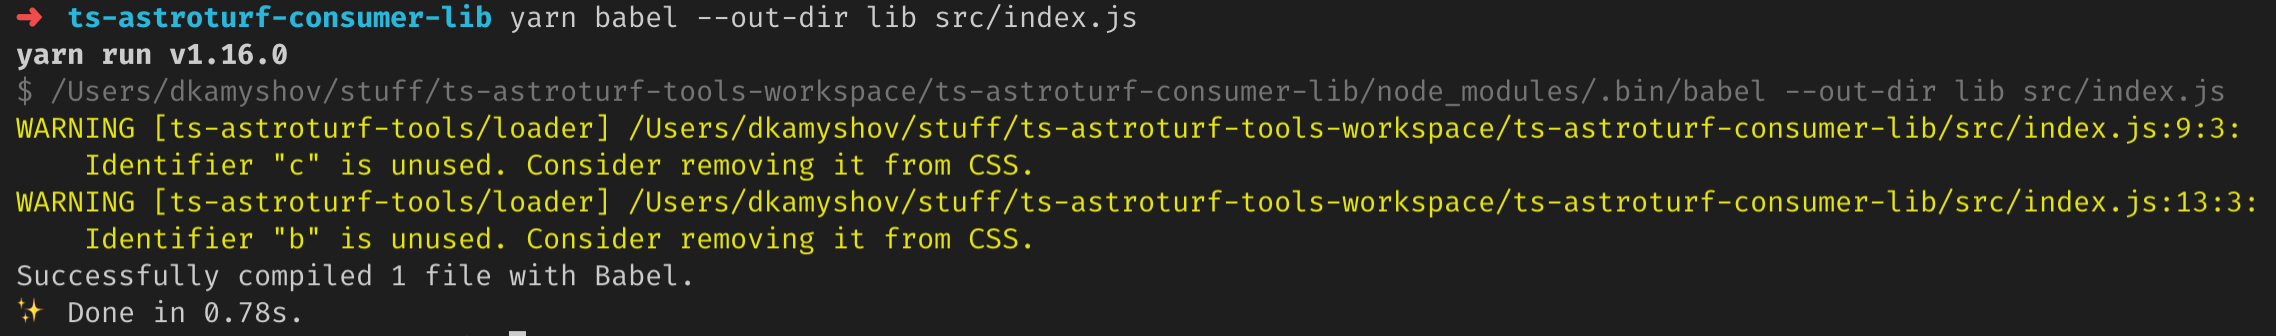
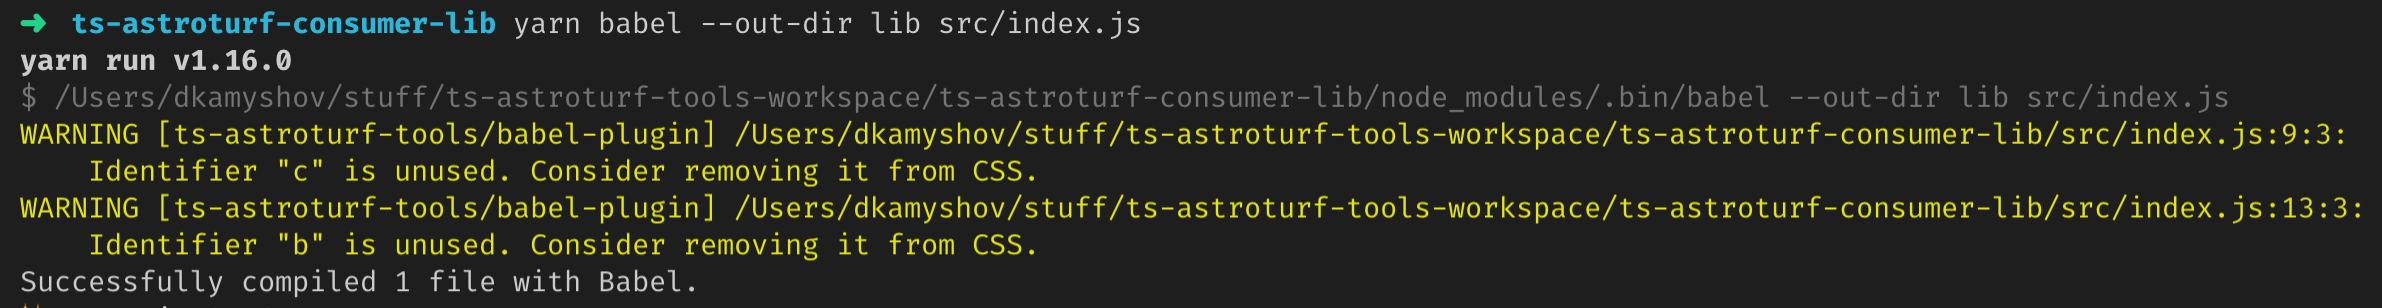
fix docs anb bump version

Changed region(s): [[0.0, 0.0, 0.9982, 0.9643], [0.2184, 0.9935, 0.2496, 1.0]]

diff --git a/src/babel-plugin/index.ts b/src/babel-plugin/index.ts
@@ -38,7 +38,7 @@ const plugin = () => {
         getUnusedTokens(assignmentMetadata).forEach(unusedToken => {
           console.warn(
             colors.yellow(
-              `WARNING [${packageName}/loader] ${filename}:${unusedToken.line +
+              `WARNING [${packageName}/babel-plugin] ${filename}:${unusedToken.line +
                 1}:${unusedToken.character + 1}:\n    Identifier "${
                 unusedToken.name
               }" is unused. Consider removing it from CSS.`
